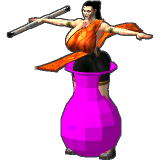
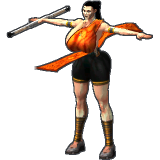
fix: the recorder draws a built-in variant's shipped pictures again when the recipe it is from changes, so booblord's human looks lose the vase too (Step 4.3 booblord vase)
record_goldens.py's characters family kept a variant's pictures while its own variants.json
entry's sha256 held, so booblord_human and booblord_high_human, whose entries name only their
colours and their from, kept the vase the step before dropped from booblord. Its key in
web/characters/index.json is now the sha256 of the recipe as it builds (recipe_keys:
_player_variants.recipe_of, the one it is from laid under it; beamlord's, from none, is his
entry's as before). One test. Shipped files re-recorded by record_goldens.py characters:
web/characters/index.json (the three looks' keys) and booblord_human's and
booblord_high_human's two pictures each, now without the vase; AGENTS.md says so.

Changed region(s): [[0.375, 0.375, 0.7812, 1.0]]

diff --git a/scripts/record_goldens.py b/scripts/record_goldens.py
@@ -630,6 +630,16 @@ def _variant(job: tuple[str, str]) -> tuple[str, dict | str]:
         return name, str(exc)
 
 
+def recipe_keys(doc: Mapping) -> dict[str, str]:
+    """Each built-in variant's key in ``web/characters/index.json``: the sha256 of its recipe as it builds
+    (``recipe_of``: one ``from`` another with that one laid under it), so a look from booblord is drawn again when
+    hers changes (Step 4.3's vase), not only when its own entry does."""
+    from azurkit.tools.characters import _player_variants as variants
+
+    return {name: hashlib.sha256(json.dumps(variants.recipe_of(dict(doc), name, "built-in")[0],
+                                            sort_keys=True).encode()).hexdigest() for name in doc}
+
+
 def characters(images: Images, workers: int) -> dict[str, bytes]:
     """The Characters tab's shipped files, by their path: ``species.json``,
     the ``[species, body]`` of each species the player can wear in
@@ -638,8 +648,8 @@ def characters(images: Images, workers: int) -> dict[str, bytes]:
     body's two pictures (``picker.preview`` on the USA image, the app's
     draw: Europe's are the same, ``tests/test_characters.py``), each
     built-in variant's (:func:`_variant`; none for one the engine refuses),
-    drawn again only when its recipe (its ``variants.json`` entry, by
-    sha256) changes, and ``index.json``: the engine's view with no image and
+    drawn again only when its recipe as it builds changes (:func:`recipe_keys`),
+    and ``index.json``: the engine's view with no image and
     no content installed (``picker.view``, garret4 at every default), each
     species' and variant's pictures' file name and each variant's recipe
     digest (one refused too, so it isn't dressed at each check)."""
@@ -656,8 +666,7 @@ def characters(images: Images, workers: int) -> dict[str, bytes]:
     out = {SPECIES: (json.dumps(rows[gate.USA], separators=(",", ":")) + "\n").encode()}
     for body in dict.fromkeys(body for _, body in rows[gate.USA]):
         out |= {f"{PICTURES}/{stem(body)}.{view}.png": png for view, png in picker.preview(read[gate.USA][1], body).items()}
-    recipes = {name: hashlib.sha256(json.dumps(entry, sort_keys=True).encode()).hexdigest()
-               for name, entry in json.loads(variants.BUILTIN.read_text(encoding="utf-8")).items()}
+    recipes = recipe_keys(json.loads(variants.BUILTIN.read_text(encoding="utf-8")))
     index = ROOT / PICTURES / "index.json"
     was = json.loads(index.read_text(encoding="utf-8")) if index.is_file() else {"recipes": {}, "variants": {}}
     files = lambda name: [f"{PICTURES}/variant--{stem(name)}.{view}.png" for view in ("front", "back")]   # noqa: E731

diff --git a/tests/test_characters.py b/tests/test_characters.py
@@ -908,6 +908,19 @@ def test_the_shipped_species_and_pictures_are_what_each_image_gives(usa_iso, eur
         rel: _sha256(made[rel]) for rel in drawn}
 
 
+def test_a_variants_shipped_pictures_are_drawn_again_when_the_recipe_it_is_from_changes():
+    """``scripts/record_goldens.py`` draws a built-in variant's shipped pictures again when its key in
+    ``web/characters/index.json`` changes: the sha256 of its recipe as it builds, so booblord's three looks
+    ``from`` her are drawn again with her (Step 4.3: her vase dropped, which none of their own entries names),
+    and beamlord's, from none, is his entry's."""
+    doc = json.loads(_player_variants.BUILTIN.read_text(encoding="utf-8"))
+    keys = record_goldens.recipe_keys(doc)
+    assert keys["beamlord"] == _sha256(json.dumps(doc["beamlord"], sort_keys=True).encode())
+    doc["booblord"]["mesh"]["drop"] = []
+    assert sorted(n for n, key in record_goldens.recipe_keys(doc).items() if key != keys[n]) == [
+        "booblord", "booblord_high", "booblord_high_human", "booblord_human"]
+
+
 def test_the_g4_buttons_values_are_their_goldens_garret_match(usa_iso):
     """``sdk.match`` (P52, D358; Modkit's ``_player_match``, ported): keylord's and beamlord's Model size,
     Attack reach, speed and damage over the packs on by default are the golden's exactly (``matches.json``,

diff --git a/AGENTS.md b/AGENTS.md
@@ -967,7 +967,8 @@ uv run --locked --group icon python assets/icon/render.py   # the icon, from its
     defaults (one the game's memory refuses has none) and the engine's
     no-image answer (`index.json`), which only `scripts/record_goldens.py`'s
     `characters` family writes (from both images; a variant is dressed
-    again only when its `variants.json` entry changes) and
+    again only when its recipe as it builds changes, the one it is `from`
+    laid under it) and
     `tests/test_characters.py` holds to the images and the app's draw: the
     page shows that answer at the tab's first open and a model's shipped
     pictures at its click, with no image and no engine call, and G4 and the

diff --git a/docs/devlog/fixed/4.3-booblord-vase-pictures.md b/docs/devlog/fixed/4.3-booblord-vase-pictures.md
@@ -1,0 +1,1 @@
+- Booblord Human's and Booblord High Human's pictures lose the vase too: the recorder of the Characters tab's shipped pictures draws a look again when the look it is made from changes, not only when its own recipe does (Step 4.3 booblord vase).
